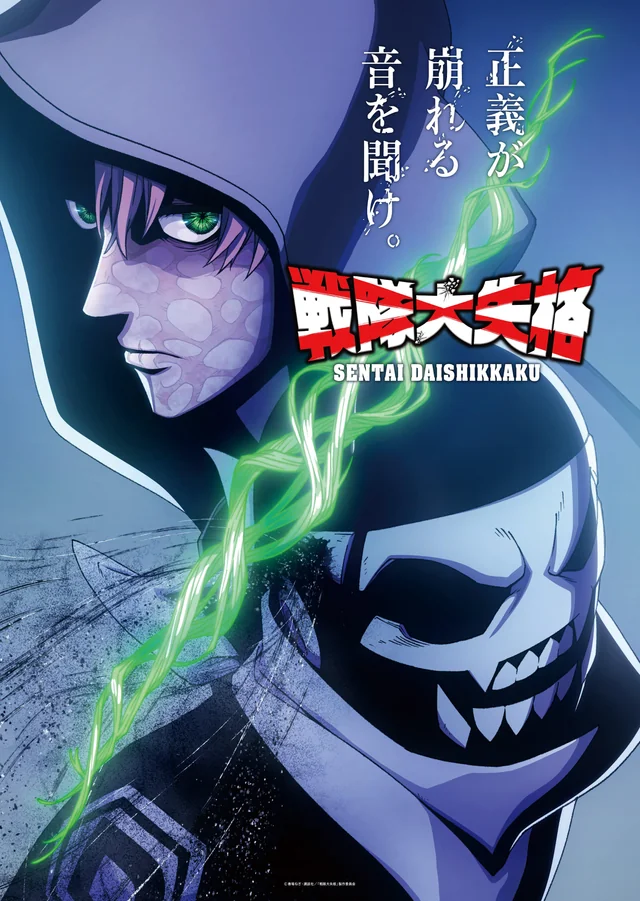
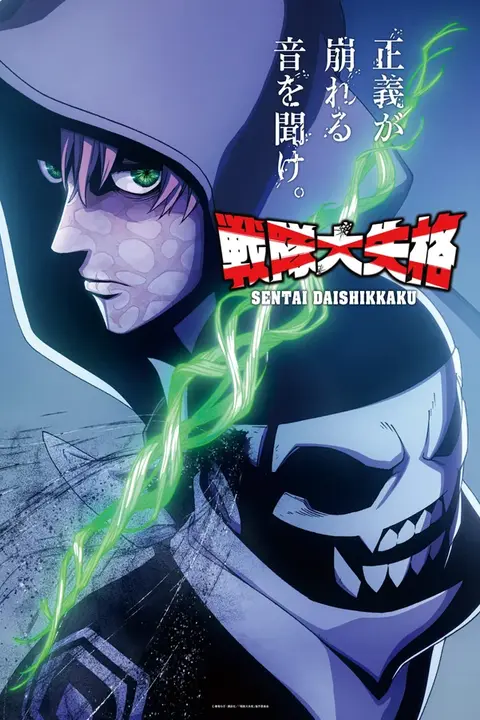
Dominguito

diff --git a/index.html b/index.html
@@ -560,8 +560,7 @@
                         </div>
                     </div>
                     <div class="box">
-                        <img src="https://a.storyblok.com/f/178900/750x1061/ac0401ebaa/sword_of_the_demon_hunter_key_visual.jpg/m/filters:quality(95)format(webp)"
-                            alt="chainsaw man">
+                        <img src="/image/Kijin-gentoushou/T1/p.webp" alt="chainsaw man">
                         <div class="etiquet">
                             <h3 style="font-size: 12px;">Episodio 2</h3>
                         </div>
